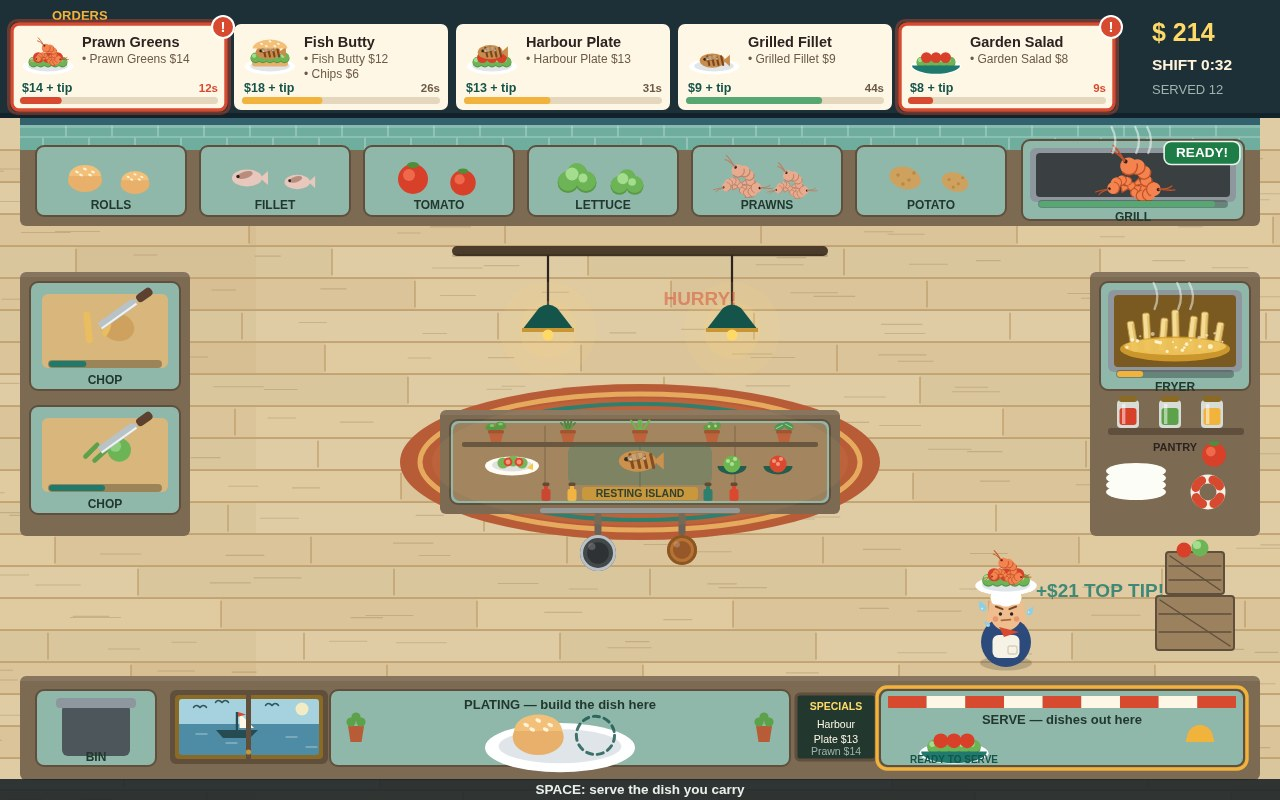
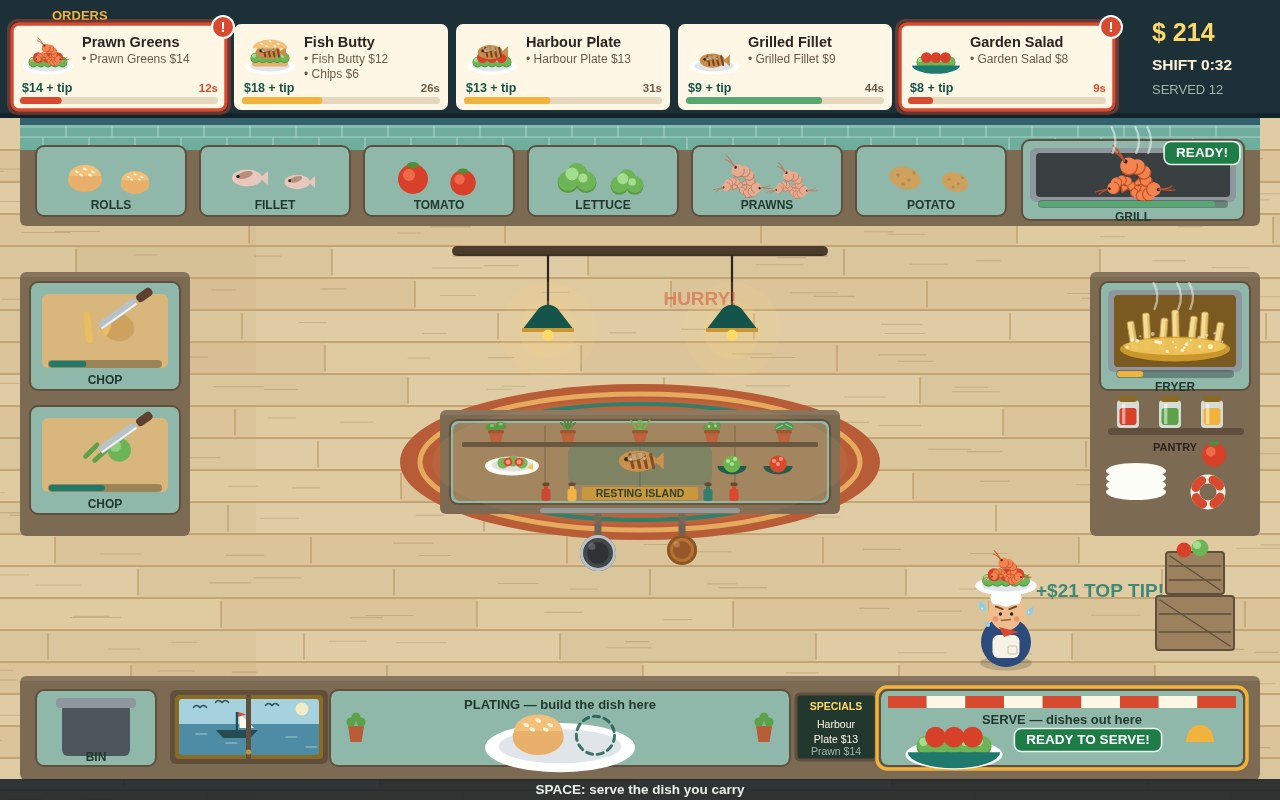
V9: the pass moment — the finished plate at the serve window draws at plating size (104) with a READY TO SERVE! badge, so the cover's sixth criterion-1 element reads at judge size

Changed region(s): [[0.6875, 0.9062, 0.9062, 0.9688]]

diff --git a/game/src/render.js b/game/src/render.js
@@ -982,8 +982,14 @@ function drawKitchen(ctx, state) {
       }
       text(ctx, 'SERVE — dishes out here', cx, station.y + 30, 13, '#22382e');
       if (state.passDish) {
-        drawDish(ctx, state.passDish, station.x + 74, station.y + 50, 74);
-        text(ctx, 'READY TO SERVE', station.x + 74, station.y + 70, 10, COLORS.tealDark);
+        // The pass moment, drawn at the plating counter's presence: a finished
+        // plate big enough to find at contact-sheet size, with the game's own
+        // call on a pill beside it. A plate ready to serve is one of the six
+        // things the cover must show; at 74 units with a 10 px caption it
+        // read as a smudge at the frame's edge, so now it gets the same
+        // badge language as READY! / BURNT! / CUT!.
+        drawDish(ctx, state.passDish, station.x + 74, station.y + 46, 104);
+        drawBadge(ctx, station.x + 208, station.y + 50, 'READY TO SERVE!', '#1e7d46');
       }
       // The service bell.
       ctx.fillStyle = COLORS.mustard;
